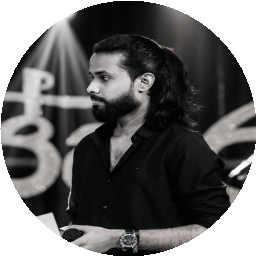
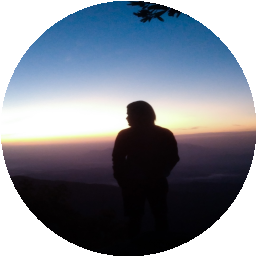
Refactor code structure for improved readability and maintainability

diff --git a/src/components/sections/Hero.tsx b/src/components/sections/Hero.tsx
@@ -48,7 +48,7 @@ export default function Hero() {
   return (
     <section
       id="hero"
-      className="relative min-h-screen flex items-center overflow-hidden"
+      className="relative min-h-screen flex items-center overflow-x-hidden"
     >
       {/* Background orbs */}
       <div className="absolute top-1/4 -left-32 w-96 h-96 bg-primary-500/10 rounded-full blur-[120px] pointer-events-none" />
@@ -161,57 +161,47 @@ export default function Hero() {
             </motion.div>
           </motion.div>
 
-          {/* Avatar / Image */}
+          {/* Profile Image */}
           <motion.div
-            className="order-1 lg:order-2 flex justify-center relative"
-            initial={{ opacity: 0, scale: 0.8 }}
-            animate={{ opacity: 1, scale: 1 }}
-            transition={{ delay: 0.4, duration: 0.8, ease: "easeOut" }}
+            className="order-1 lg:order-2 flex justify-center lg:justify-end relative"
+            initial={{ opacity: 0, x: 40 }}
+            animate={{ opacity: 1, x: 0 }}
+            transition={{ delay: 0.4, duration: 1, ease: "easeOut" }}
           >
-            {/* Decorative ring */}
-            <div className="absolute inset-0 flex items-center justify-center">
-              <div className="w-80 h-80 md:w-[400px] md:h-[400px] rounded-full border border-primary-500/20 animate-spin-slow" />
-            </div>
-
-            {/* Avatar */}
-            <div className="relative w-72 h-72 md:w-96 md:h-96">
-              <div className="absolute inset-0 rounded-full bg-gradient-to-br from-primary-500/20 via-accent-500/10 to-primary-600/20 animate-pulse-glow" />
-              <div className="absolute inset-2 rounded-full overflow-hidden">
-                <div className="relative w-full h-full">
+            <div className="relative w-80 h-[28rem] md:w-[420px] md:h-[520px] lg:w-[480px] lg:h-[580px]">
+              {/* Large diffused ambient glow */}
+              <div className="absolute inset-[-40px] bg-gradient-to-t from-primary-400/25 via-primary-700/10 to-accent-800/15 rounded-full blur-[100px] pointer-events-none" />
+              {/* Tighter body glow to soften cutout edges */}
+              <div className="absolute inset-[10%] bg-gradient-to-br from-primary-500/20 via-accent-500/15 to-primary-600/20 rounded-full blur-[60px] pointer-events-none" />
+              {/* Subtle rim light effect */}
+              <div className="absolute inset-[5%] bg-gradient-to-t from-transparent via-cyan-500/8 to-primary-400/10 rounded-full blur-[40px] pointer-events-none" />
+              
+              {/* Main image with layered linear masks for perfect edge fading */}
+              <div
+                className="relative w-full h-full"
+                style={{
+                  maskImage: "linear-gradient(to bottom, black 50%, transparent 95%)",
+                  WebkitMaskImage: "linear-gradient(to bottom, black 50%, transparent 95%)",
+                }}
+              >
+                <div
+                  className="relative w-full h-full"
+                  style={{
+                    maskImage: "linear-gradient(to right, transparent 0%, black 15%, black 100%)",
+                    WebkitMaskImage: "linear-gradient(to right, transparent 0%, black 15%, black 100%)",
+                  }}
+                >
                   <Image
-                    src={PERSONAL_INFO.avatarUrl}
+                    src="/profile.png"
                     alt={PERSONAL_INFO.name}
                     fill
                     priority
                     unoptimized
-                    className="object-cover rounded-full"
+                    className="object-cover object-top"
                   />
                 </div>
               </div>
             </div>
-
-            {/* Floating tech icons */}
-            {floatingIcons.map((item) => (
-                <motion.div
-                  key={item.label}
-                  className="absolute top-1/2 left-1/2 glass rounded-xl p-2.5 text-lg"
-                  style={{
-                    x: item.x - 20,
-                    y: item.y - 20,
-                  }}
-                  animate={{
-                    y: [item.y - 20, item.y - 30, item.y - 20],
-                  }}
-                  transition={{
-                    duration: 3,
-                    delay: item.delay,
-                    repeat: Infinity,
-                    ease: "easeInOut",
-                  }}
-                >
-                  {item.icon}
-                </motion.div>
-              ))}
           </motion.div>
         </div>
       </div>

diff --git a/src/components/sections/About.tsx b/src/components/sections/About.tsx
@@ -68,7 +68,7 @@ export default function About() {
               <div className="relative rounded-2xl overflow-hidden glass p-3">
                 <div className="aspect-square rounded-xl bg-gradient-to-br from-primary-500/20 via-dark-200 to-accent-500/20 flex items-center justify-center relative overflow-hidden">
                   <Image
-                    src={PERSONAL_INFO.avatarUrl}
+                    src="/avatar.png"
                     alt={PERSONAL_INFO.name}
                     fill
                     unoptimized
